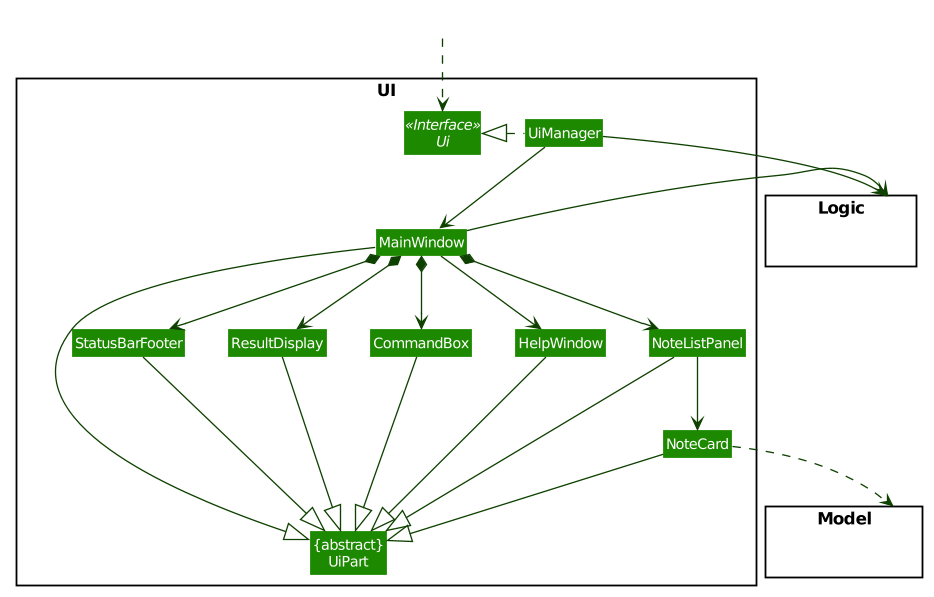
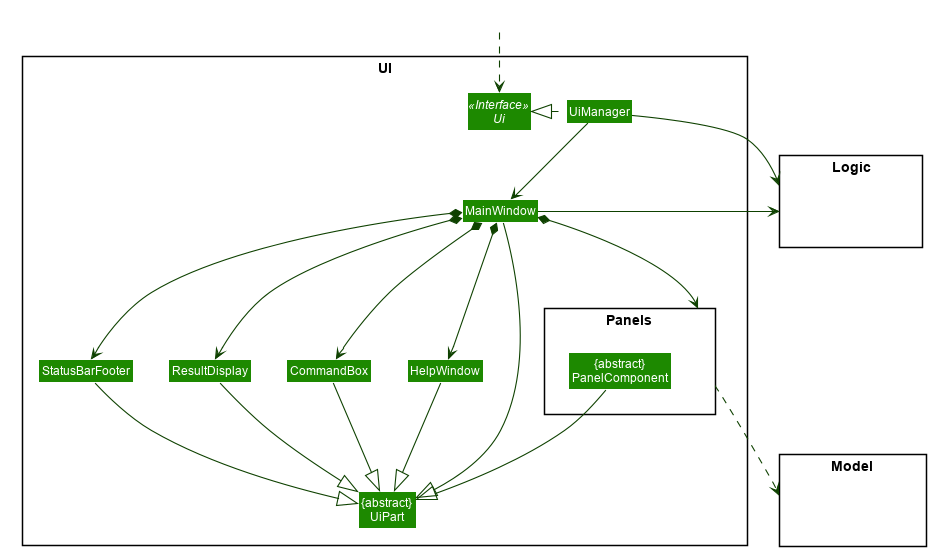
Rebuild pages at f60ca56ffe8c0448bcdcf1c2edb7204d5896bef0

diff --git a/DeveloperGuide.html b/DeveloperGuide.html
@@ -79,6 +79,12 @@ issues the command <code>deletenote 1</code>.</p>
 </div>
 <div class="title">Figure 4. Class diagram of the <code>UI</code> component</div>
 </div>
+<div class="imageblock">
+<div class="content">
+<img src="images/PanelPackageClassDiagram.png" alt="PanelPackageClassDiagram">
+</div>
+<div class="title">Figure 5. Detailed class diagram for <code>Panels</code> package</div>
+</div>
 <div class="paragraph">
 <p><em>API:</em> <a href="https://github.com/AY1920S1-CS2103T-F11-4/main/tree/master/src/main/java/seedu/address/ui/Ui.java"><code>Ui.java</code></a></p>
 </div>
@@ -110,7 +116,7 @@ issues the command <code>deletenote 1</code>.</p>
 <div class="content">
 <img src="images/LogicClassDiagram.png" alt="LogicClassDiagram">
 </div>
-<div class="title">Figure 5. Class diagram of the <code>Logic</code> component</div>
+<div class="title">Figure 6. Class diagram of the <code>Logic</code> component</div>
 </div>
 <div class="paragraph">
 <p><em>API:</em> <a href="https://github.com/AY1920S1-CS2103T-F11-4/main/tree/master/src/main/java/seedu/address/logic/Logic.java"><code>Logic.java</code></a></p>
@@ -142,7 +148,7 @@ The lifeline for <code>DeleteCommandParser</code> should end at the destroy mark
 <div class="content">
 <img src="images/DeleteSequenceDiagram.png" alt="DeleteSequenceDiagram">
 </div>
-<div class="title">Figure 6. Interactions inside the <code>Logic</code> component for the <code>deletenote 1</code> command</div>
+<div class="title">Figure 7. Interactions inside the <code>Logic</code> component for the <code>deletenote 1</code> command</div>
 </div>
 </div>
 <div class="sect2">
@@ -151,7 +157,7 @@ The lifeline for <code>DeleteCommandParser</code> should end at the destroy mark
 <div class="content">
 <img src="images/ModelClassDiagram.png" alt="ModelClassDiagram">
 </div>
-<div class="title">Figure 7. Class diagram of the <code>Model</code> component</div>
+<div class="title">Figure 8. Class diagram of the <code>Model</code> component</div>
 </div>
 <div class="paragraph">
 <p><em>API:</em> <a href="https://github.com/AY1920S1-CS2103T-F11-4/main/tree/master/src/main/java/seedu/address/model/Model.java"><code>Model.java</code></a></p>
@@ -169,7 +175,7 @@ so any data changes are immediately user-visible.</p>
 <div class="content">
 <img src="images/StorageClassDiagram.png" alt="StorageClassDiagram">
 </div>
-<div class="title">Figure 8. Class diagram of the <code>Storage</code> component</div>
+<div class="title">Figure 9. Class diagram of the <code>Storage</code> component</div>
 </div>
 <div class="paragraph">
 <p><em>API:</em> <a href="https://github.com/AY1920S1-CS2103T-F11-4/main/tree/master/src/main/java/seedu/address/storage/Storage.java"><code>Storage.java</code></a></p>
@@ -214,7 +220,7 @@ instead of having to rely on a <code>Window</code> object, which is the domain o
 <div class="content">
 <img src="images/ImageSelectionSequenceDiagram.png" alt="ImageSelectionSequenceDiagram">
 </div>
-<div class="title">Figure 9. Sequence diagram for the execution of <code>EditNoteCommandParser</code></div>
+<div class="title">Figure 10. Sequence diagram for the execution of <code>EditNoteCommandParser</code></div>
 </div>
 </div>
 <div class="sect3">
@@ -1994,4 +2000,4 @@ Expected: Similar to previous.</p>
 </div>
 </div>
 </div>
-</div></div><div id="footer"><div class="container"><div id="footer-text">Last updated 2019-10-23 13:47:28 UTC</div></div></div></body></html>
+</div></div><div id="footer"><div class="container"><div id="footer-text">Last updated 2019-10-24 03:22:04 UTC</div></div></div></body></html>

diff --git a/UserGuide.html b/UserGuide.html
@@ -469,4 +469,4 @@ Format: <code>rndone</code></p>
 <strong>A</strong>: Install the app in the other computer and overwrite the empty data file it creates with the file that contains the data of your previous Address Book folder.</p>
 </div>
 </div>
-</div></div><div id="footer"><div class="container"><div id="footer-text">Last updated 2019-10-23 13:47:28 UTC</div></div></div></body></html>
+</div></div><div id="footer"><div class="container"><div id="footer-text">Last updated 2019-10-24 03:22:04 UTC</div></div></div></body></html>

diff --git a/Testing.html b/Testing.html
@@ -90,4 +90,4 @@ e.g. <code>seedu.address.logic.LogicManagerTest</code></p>
 <div class="title">Figure 1. <code>Accessibility</code> permission is granted to <code>IntelliJ IDEA</code></div>
 </div>
 </div>
-</div></div><div id="footer"><div class="container"><div id="footer-text">Last updated 2019-10-23 13:47:28 UTC</div></div></div></body></html>
+</div></div><div id="footer"><div class="container"><div id="footer-text">Last updated 2019-10-24 03:22:04 UTC</div></div></div></body></html>

diff --git a/DevOps.html b/DevOps.html
@@ -57,4 +57,4 @@ this project depends on the <a href="https://github.com/FasterXML/jackson">Jacks
 for JSON parsing. Managing these dependencies can be automated using Gradle.</p>
 </div>
 </div>
-</div></div><div id="footer"><div class="container"><div id="footer-text">Last updated 2019-10-23 13:47:28 UTC</div></div></div></body></html>
+</div></div><div id="footer"><div class="container"><div id="footer-text">Last updated 2019-10-24 03:22:04 UTC</div></div></div></body></html>

diff --git a/SettingUp.html b/SettingUp.html
@@ -131,4 +131,4 @@ Do not disable them. If you have disabled them, go to <code>File</code> &gt; <co
 </div>
 </div>
 </div>
-</div></div><div id="footer"><div class="container"><div id="footer-text">Last updated 2019-10-23 13:47:28 UTC</div></div></div></body></html>
+</div></div><div id="footer"><div class="container"><div id="footer-text">Last updated 2019-10-24 03:22:04 UTC</div></div></div></body></html>

diff --git a/UsingGradle.html b/UsingGradle.html
@@ -228,4 +228,4 @@ See <code>build.gradle</code> &#8594; <code>allprojects</code> &#8594; <code>dep
 </ul>
 </div>
 </div>
-</div></div><div id="footer"><div class="container"><div id="footer-text">Last updated 2019-10-23 13:47:28 UTC</div></div></div></body></html>
+</div></div><div id="footer"><div class="container"><div id="footer-text">Last updated 2019-10-24 03:22:04 UTC</div></div></div></body></html>

diff --git a/UsingNetlify.html b/UsingNetlify.html
@@ -123,4 +123,4 @@ The publish directory is the directory in which the built HTML documentation res
 </ol>
 </div>
 </div>
-</div></div><div id="footer"><div class="container"><div id="footer-text">Last updated 2019-10-23 13:47:28 UTC</div></div></div></body></html>
+</div></div><div id="footer"><div class="container"><div id="footer-text">Last updated 2019-10-24 03:22:04 UTC</div></div></div></body></html>

diff --git a/AboutUs.html b/AboutUs.html
@@ -94,4 +94,4 @@ Responsibilities: Implementing <code>Question</code> module and the test feature
 <hr>
 </div>
 </div>
-</div></div><div id="footer"><div class="container"><div id="footer-text">Last updated 2019-10-23 13:47:28 UTC</div></div></div></body></html>
+</div></div><div id="footer"><div class="container"><div id="footer-text">Last updated 2019-10-24 03:22:04 UTC</div></div></div></body></html>

diff --git a/Documentation.html b/Documentation.html
@@ -223,4 +223,4 @@ The SE-EDU team does not provide support for modified template files.</p>
 </table>
 </div>
 </div>
-</div></div><div id="footer"><div class="container"><div id="footer-text">Last updated 2019-10-23 13:47:28 UTC</div></div></div></body></html>
+</div></div><div id="footer"><div class="container"><div id="footer-text">Last updated 2019-10-24 03:22:04 UTC</div></div></div></body></html>

diff --git a/UsingTravis.html b/UsingTravis.html
@@ -271,4 +271,4 @@ Suggested change: Remove the codacy badge from <code>README</code>.</p>
 </div>
 </div>
 </div>
-</div></div><div id="footer"><div class="container"><div id="footer-text">Last updated 2019-10-23 13:47:28 UTC</div></div></div></body></html>
+</div></div><div id="footer"><div class="container"><div id="footer-text">Last updated 2019-10-24 03:22:04 UTC</div></div></div></body></html>

diff --git a/UsingPlantUml.html b/UsingPlantUml.html
@@ -337,4 +337,4 @@ Explicitly define all symbols to avoid any potential layout mishaps.
 </div>
 </div>
 </div>
-</div></div><div id="footer"><div class="container"><div id="footer-text">Last updated 2019-10-23 13:47:28 UTC</div></div></div></body></html>
+</div></div><div id="footer"><div class="container"><div id="footer-text">Last updated 2019-10-24 03:22:04 UTC</div></div></div></body></html>

diff --git a/ContactUs.html b/ContactUs.html
@@ -12,4 +12,4 @@
 <p><strong>Email us</strong> at <code>e0191785 [at] u.nus.edu</code></p>
 </li>
 </ul>
-</div></div><div id="footer"><div class="container"><div id="footer-text">Last updated 2019-10-23 13:47:28 UTC</div></div></div></body></html>
+</div></div><div id="footer"><div class="container"><div id="footer-text">Last updated 2019-10-24 03:22:04 UTC</div></div></div></body></html>
